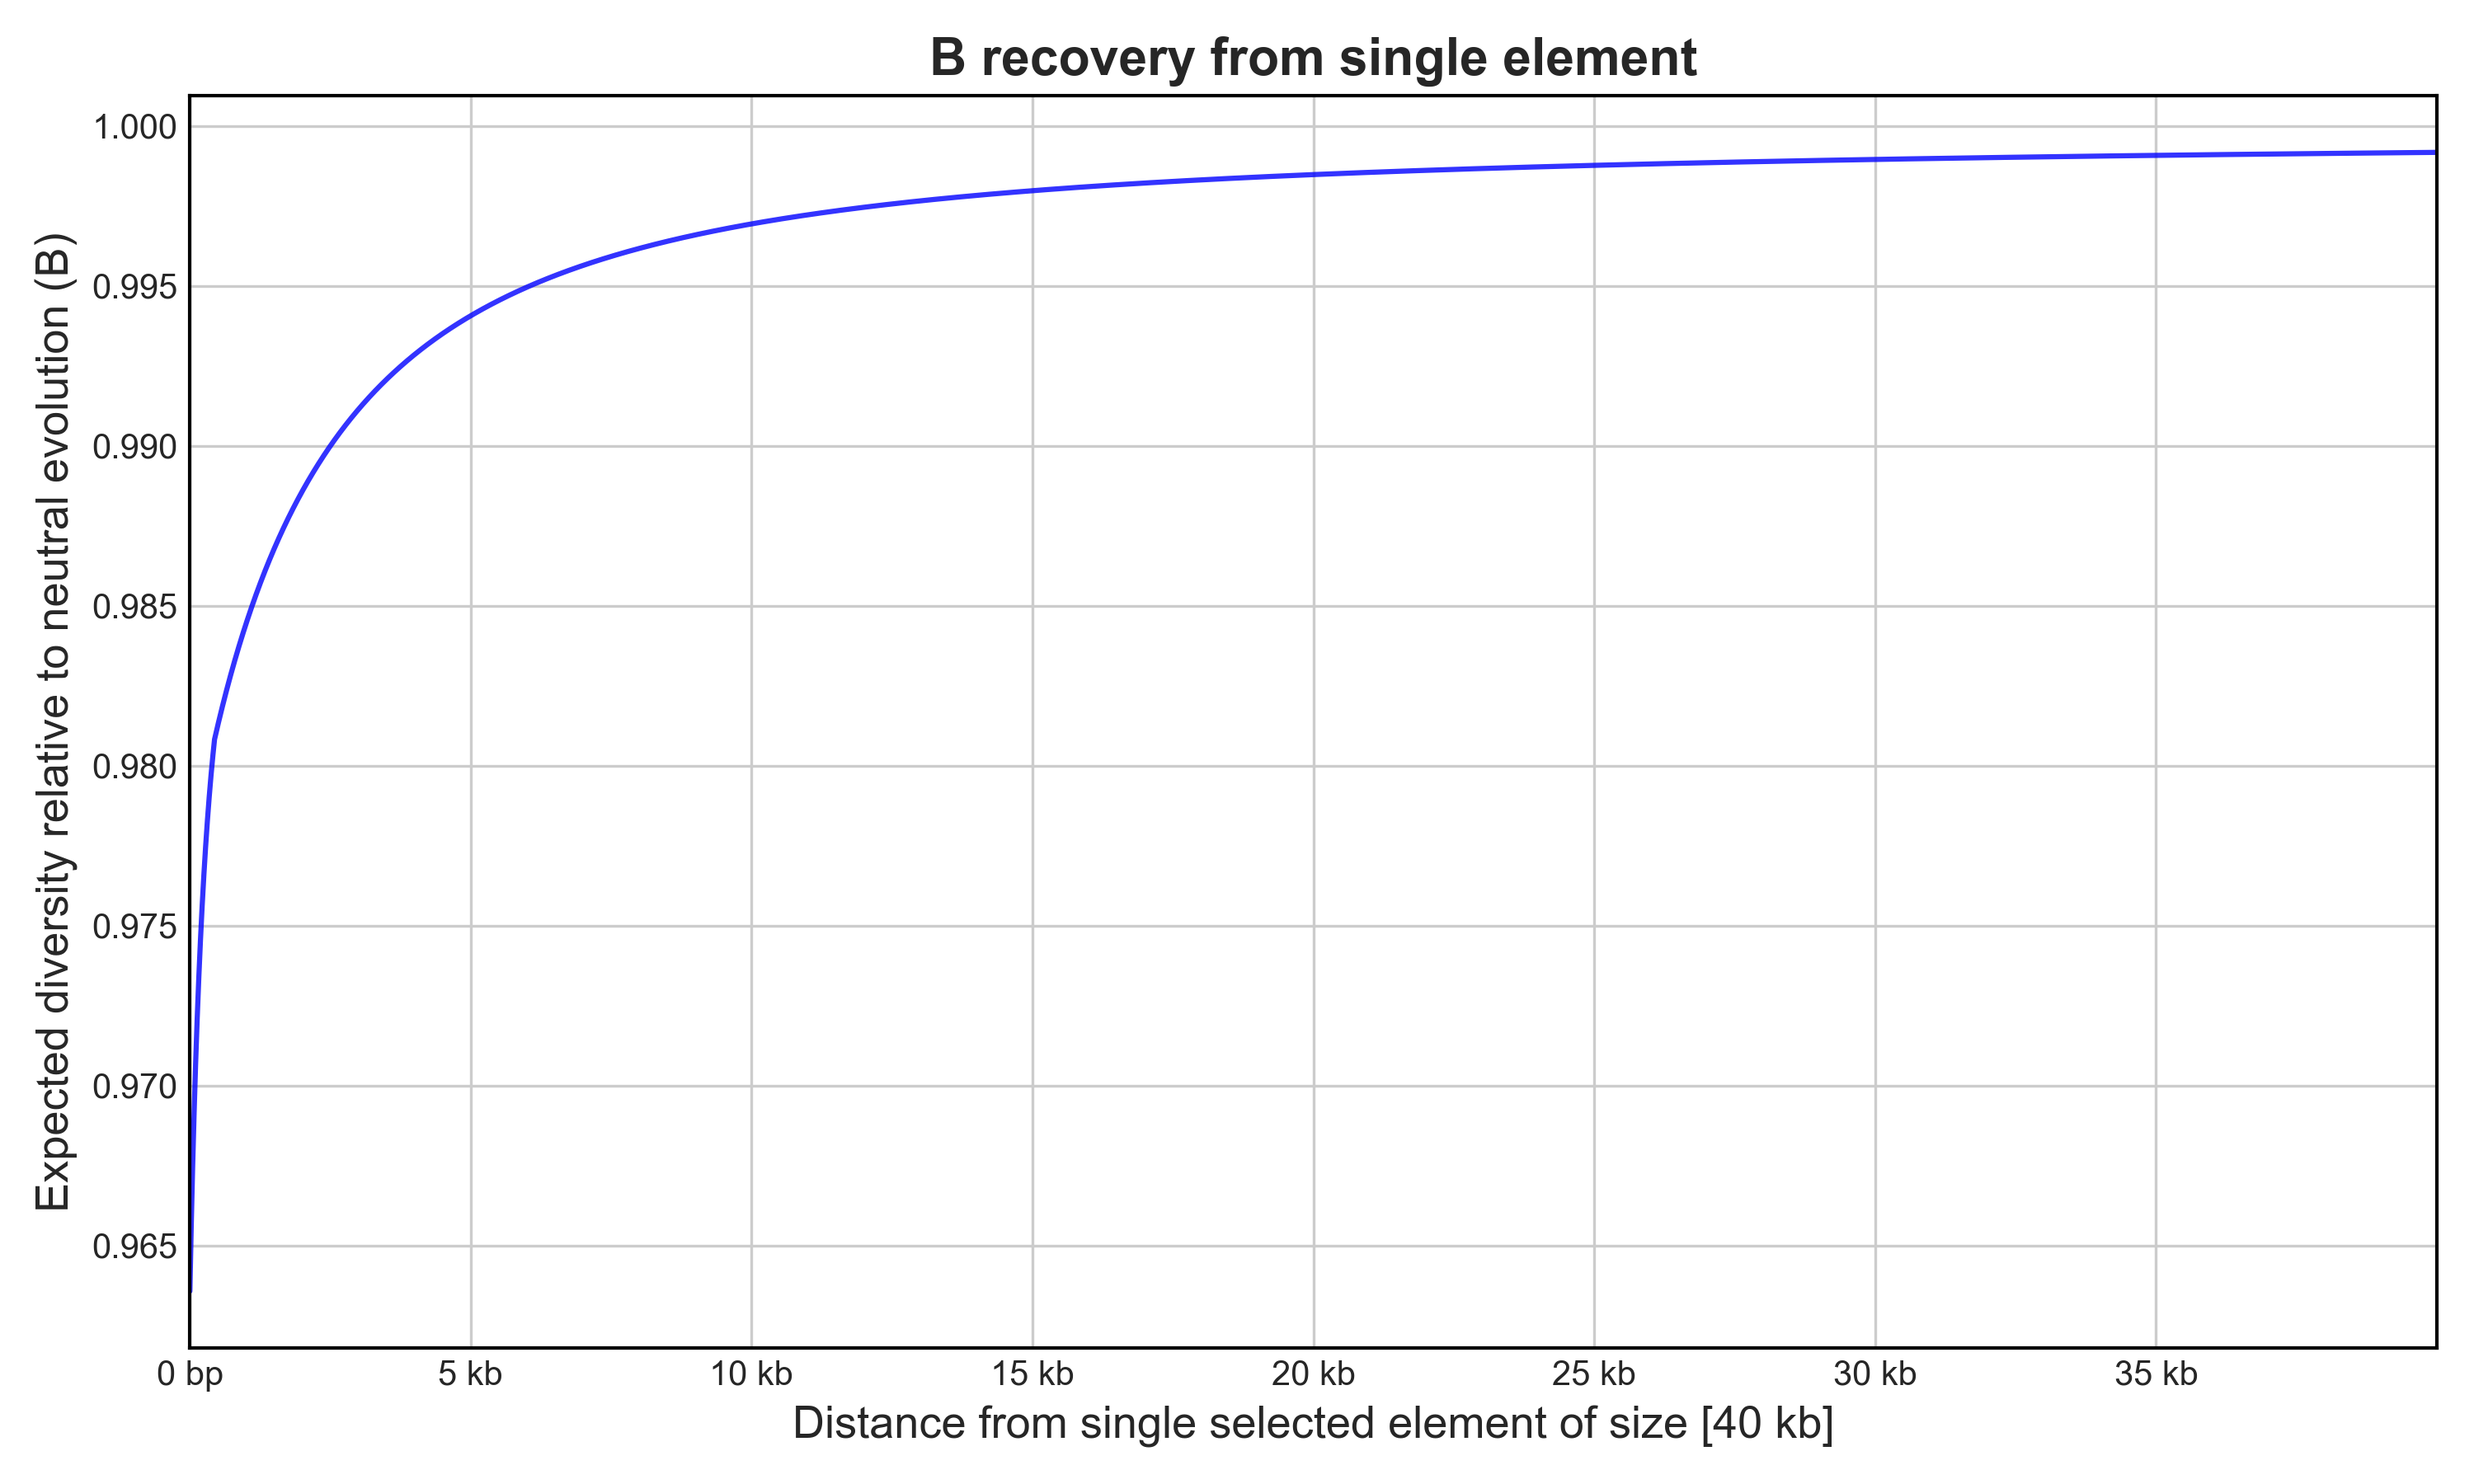
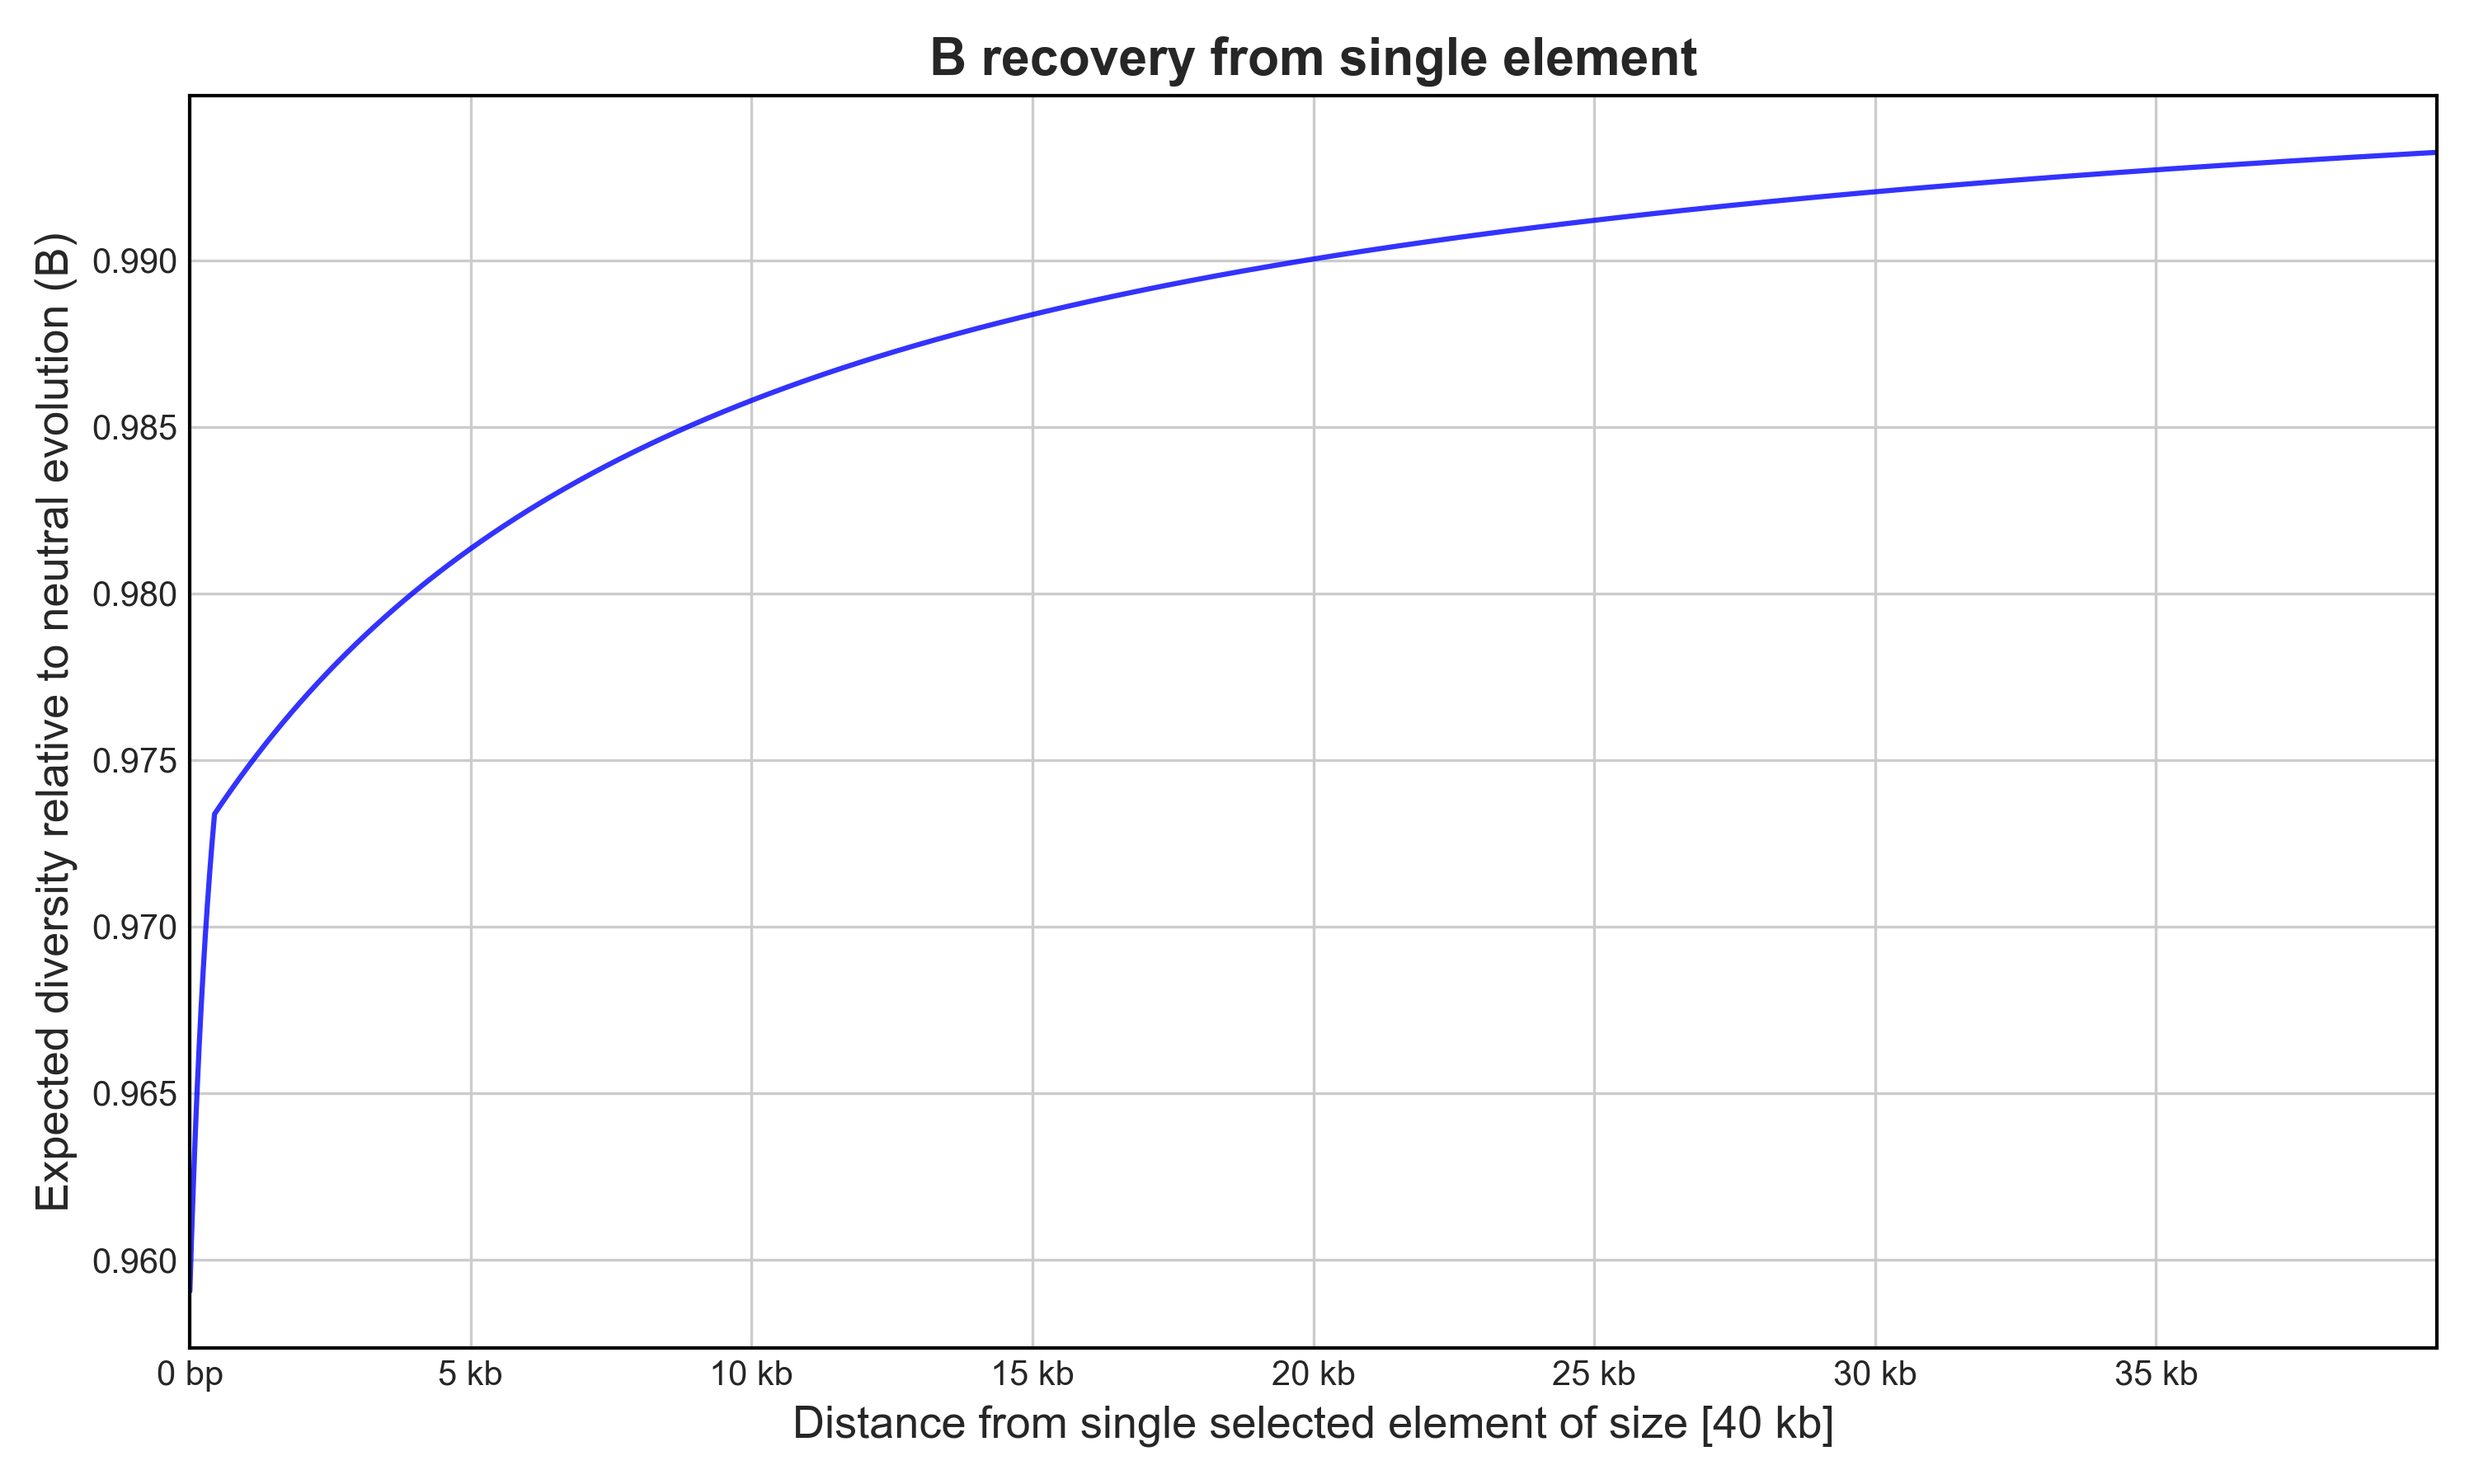
Add --site option, and potentially fixed gene conversion problem

diff --git a/helperScripts/calculateB.py b/helperScripts/calculateB.py
@@ -23,6 +23,7 @@ def get_a_b_with_GC(C, y, l):
             proportion_nogc_b = np.where(k < y + l, # When GC includes gene site, this is probability the tract includes neutral site of interest 
                                     1/(2*k) * np.maximum(k-y+1,0) * np.maximum(k - y, 0) / l,
                                     (k - y - 0.5 * l) / k)
+            
         
         a = np.where(k < y, 
             C + (2 * g * k), # Probability of GC on neutral site, where overlap with element not possible
@@ -30,11 +31,12 @@ def get_a_b_with_GC(C, y, l):
                 g * (k - y) * # Probability gc is in neutral and includes some element (remaining probability from above)
                 (1 - proportion_nogc_a) # Proportion of gene that gc breaks linkage with when it includes some element
         ))
-        b = C + (r * l) + (2 * g * k) * (1 -  proportion_nogc_b) #* prop k out
+        b = C + (r * l) + (2 * g * k) * (1 -  (1-proportion_nogc_a)*proportion_nogc_b) #* prop k out
+        print("props", l, proportion_nogc_a)
 
         return a, b
 
-def get_a_b_with_GC_andMaps(C, y, l, local_g, rec_l): ## WORK ON AS YOU WRITE UP EQUATION
+def get_a_b_with_GC_andMaps(C, y, l, rec_l, local_g):
         with np.errstate(divide='ignore', invalid='ignore'):
             proportion_nogc_a = np.where(k < y + l, # When GC includes neutral site, this is proportion of the gene it includes
                                         np.maximum((0.5*(k-y)/l), 0),
@@ -51,7 +53,7 @@ def get_a_b_with_GC_andMaps(C, y, l, local_g, rec_l): ## WORK ON AS YOU WRITE UP
                 local_g * (k - y) * # Probability gc is in neutral and includes some element (remaining probability from above)
                 (1 - proportion_nogc_a) # Proportion of gene that gc breaks linkage with when it includes some element
         ))
-        b = C + (r * rec_l) + (2 * local_g * k) * (1 -  proportion_nogc_b) #* prop k out
+        b = C + (r * rec_l) + (2 * local_g * k) * (1 - proportion_nogc_b) #* prop k out
 
         return a, b
 
@@ -68,6 +70,7 @@ def calculateB_linear(distance_to_element, length_of_element):
             b = C + (r * length_of_element) # RECOMBINATION IN X
         elif g > 0:
             a, b = get_a_b_with_GC(C, distance_to_element, length_of_element)
+        # print(a, b, C, U)
 
         E_f1 = calculate_exponent(t1half, t2, U, a, b)
         E_f2 = calculate_exponent(t2, t3, U, a, b)

diff --git a/Bvalcalc.py b/Bvalcalc.py
@@ -8,6 +8,7 @@ from helperScripts.parseArgs import parseGenomeArgs, parseRegionArgs
 from helperScripts.genomeBcalc import genomeBcalc
 from helperScripts.regionBcalc import regionBcalc
 from helperScripts.plotBasic import plotBasic
+from helperScripts.calculateB import calculateB_linear
 
 def main():
     start_time = time.time()
@@ -16,6 +17,7 @@ def main():
     group = parser.add_mutually_exclusive_group(required=True)
     group.add_argument('--genome', action='store_true', help="Compute B values genome-wide")
     group.add_argument('--region', action='store_true', help="Compute B values for a region")
+    group.add_argument('--site', action='store_true', help="Compute B values for a single site")
     known_args, remaining_args = parser.parse_known_args()
 
     if known_args.genome: # Run genome Bcalc
@@ -28,6 +30,15 @@ def main():
         output_data = regionBcalc(args) # Capture the output from regionBcalc
         if getattr(args, 'plot_output', False): # If the --plot_basic flag was provided, call plotBasic with regionBcalc's output.
             plotBasic(b_values_input=output_data, caller="region", output_path=args.plot_output, silent=args.silent)
+    elif known_args.site:
+        B = calculateB_linear(1, 200)
+        B2 = calculateB_linear(1, 400)
+        B3 = calculateB_linear(1, 800)
+        print("B", B)
+        print("B2", B2)
+        print("B3", B3)
+        sys.exit()
+                
 
     if args.out is not None: # Write to CSV
         np.savetxt(args.out, # This might be "b_values.csv" or a custom path

diff --git a/helperScripts/RunBCalcScripts/calcBInGenes.py b/helperScripts/RunBCalcScripts/calcBInGenes.py
@@ -77,10 +77,14 @@ def calcBInGenes(chunk_size, num_chunks, precise_chunks, precise_blockstart, pre
             this_chunk_idx = np.where(chunk_starts == chunk_start)[0][0] # The ID of this chunk in the chunk_starts array, e.g. if precise_chunks = 3, this will be [3] for chunk_num > 2
             precise_gc_rates = gc_rate_per_chunk[np.maximum(0, chunk_num - precise_chunks):np.minimum(num_chunks, chunk_num + precise_chunks + 1)]
             gc_bp_to_element = 1 * precise_gc_rates[this_chunk_idx]  # calculateB recdistances input
-            print("LAA ", left_chunk_gclengths)
+
 
             left_block_B = calculateB_recmap(distance_to_element = 1, length_of_element = left_block_lengths, rec_distances=None, rec_lengths=None, gc_distances=gc_bp_to_element, gc_lengths=left_chunk_gclengths)
             right_block_B = calculateB_recmap(distance_to_element = 1, length_of_element = right_block_lengths, rec_distances=None, rec_lengths=None, gc_distances=gc_bp_to_element, gc_lengths=right_chunk_gclengths)
+            
+            if chunk_num == 0:
+                print("aye", left_block_B[200:250], left_block_lengths[200:250], left_chunk_gclengths[200:250], gc_bp_to_element)
+
             
 
         else:

diff --git a/helperScripts/RunBCalcScripts/process_single_chunk.py b/helperScripts/RunBCalcScripts/process_single_chunk.py
@@ -117,6 +117,8 @@ def process_single_chunk(chunk_num, chunk_size, blockstart, blockend, chr_start,
     else:
         agg_gene_B = calcBInGenes(chunk_size, num_chunks, precise_chunks, precise_blockstart, precise_blockend, chunk_start, chunk_end, physical_lengths, precise_region_start, chunk_num, rec_rate_per_chunk = None, gc_rate_per_chunk = None, rec_lengths = None, gc_lengths = None)
 
+    # if chunk_num == 0:
+    #     print(agg_gene_B[:450])
 #>>> GENE NONSENSE <<< 
 
 

diff --git a/ExampleParams.py b/ExampleParams.py
@@ -5,7 +5,7 @@
 ##        ./Bvalcalc --genome --pop_params ExampleParams.py
 
 x = 100 # Scaling Factor (N,u,r), keep as [1] unless calculating for rescaled simulations
-g = 1*1e-8*x # Gene conversion initiation rate per bp, per generation
+g = 5*1e-8*x # Gene conversion initiation rate per bp, per generation
 k = 440 # Gene conversion tract length (bp)
 r = 0.5*1e-8*x #rate of recombination
 u = 3*1e-9*x #(*Mutation rate*)
